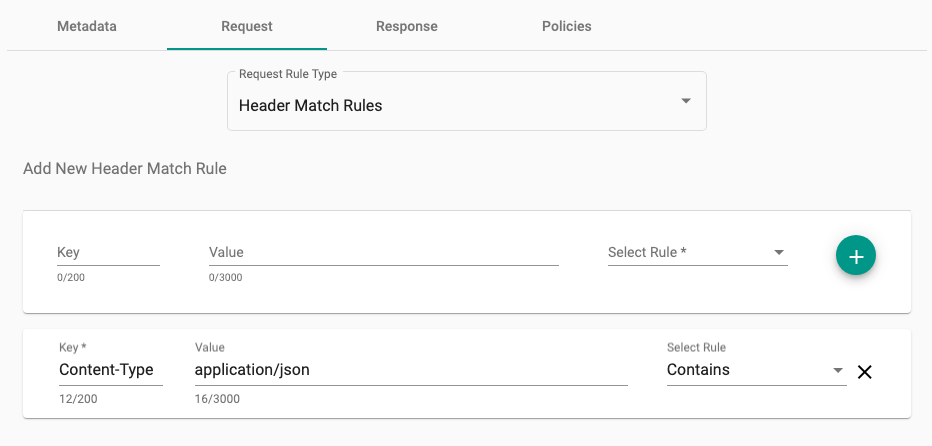
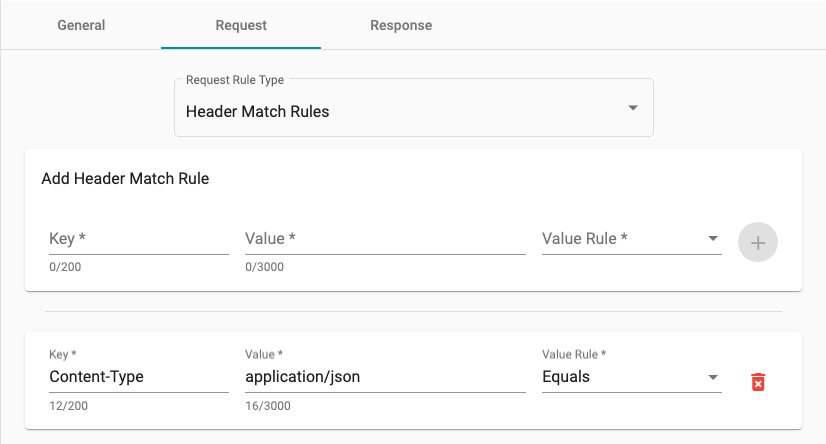
Updated readme and images

diff --git a/README.md b/README.md
@@ -116,22 +116,16 @@ The purpose of a scenario is to describe what the endpoint will expect from the 
 
 2. Click **"+"** on the bottom right to add a new scenario.
 
-3. Start by filling the **"Metadata"** section. Give the new scenario a name and description. The name is required.
-   ![New Scenario Metadata](/readme_images/newScenarioMetadata.png)
+3. Start by filling the **"General"** section. Give the new scenario a name and description. The name is required.
+   ![New Scenario General](/readme_images/newScenarioGeneral.png)
 
-4. Click **"Request Match Rules"** and then click **"Header Match Rules"**. Enter in _"Content-Type"_ as the key and _"application/json"_ as the value.
+4. Click **"Request"** and then select **"Header Match Rules"**. Enter in _"Content-Type"_ as the key and _"application/json"_ as the value.
 
 5. Click **"+"** next to the value to add it as a header rule. The rule will appear below.
    ![Header Match Rule](/readme_images/headerMatchRule.png)
 
 6. A response has to be defined for this header rule. Click **Response** and enter in the text as shown below. In this example, the server will return a `200` with the following response:
    ![New Scenario Response](/readme_images/newScenarioResponse.png)
-
-```
-{
-	"pet1": "max"
-}
-```
 
 7. Click **"Save"**.
 
